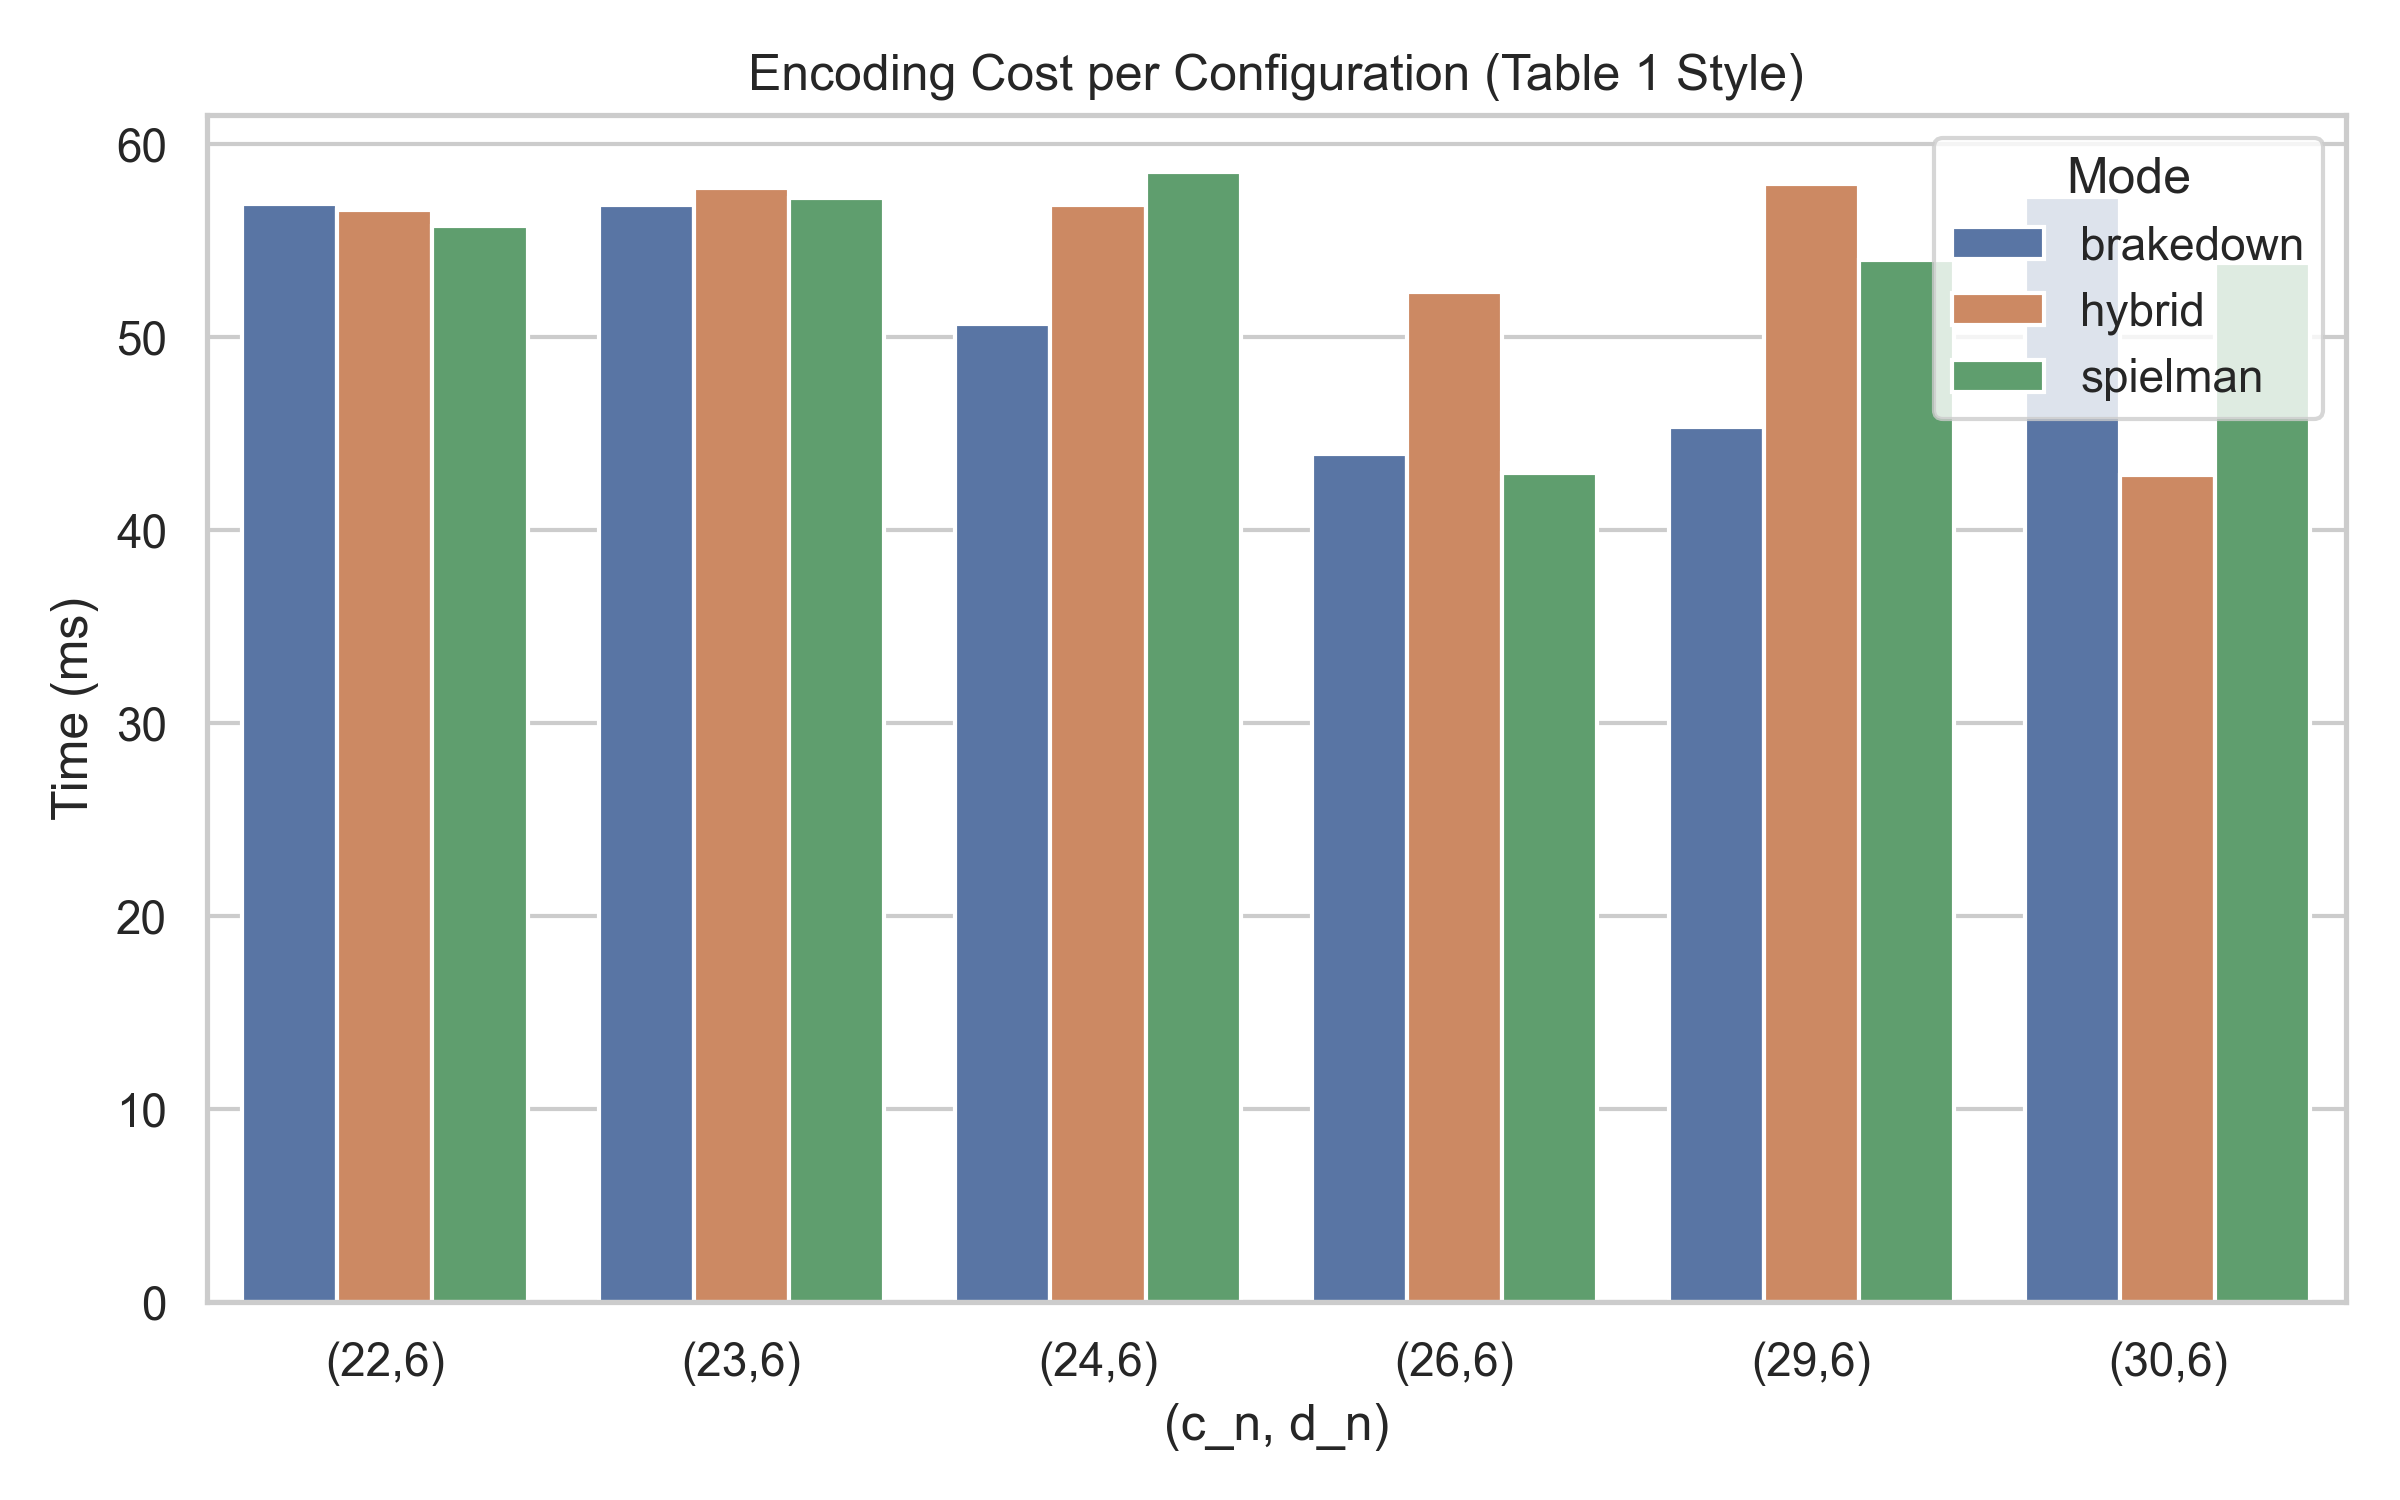
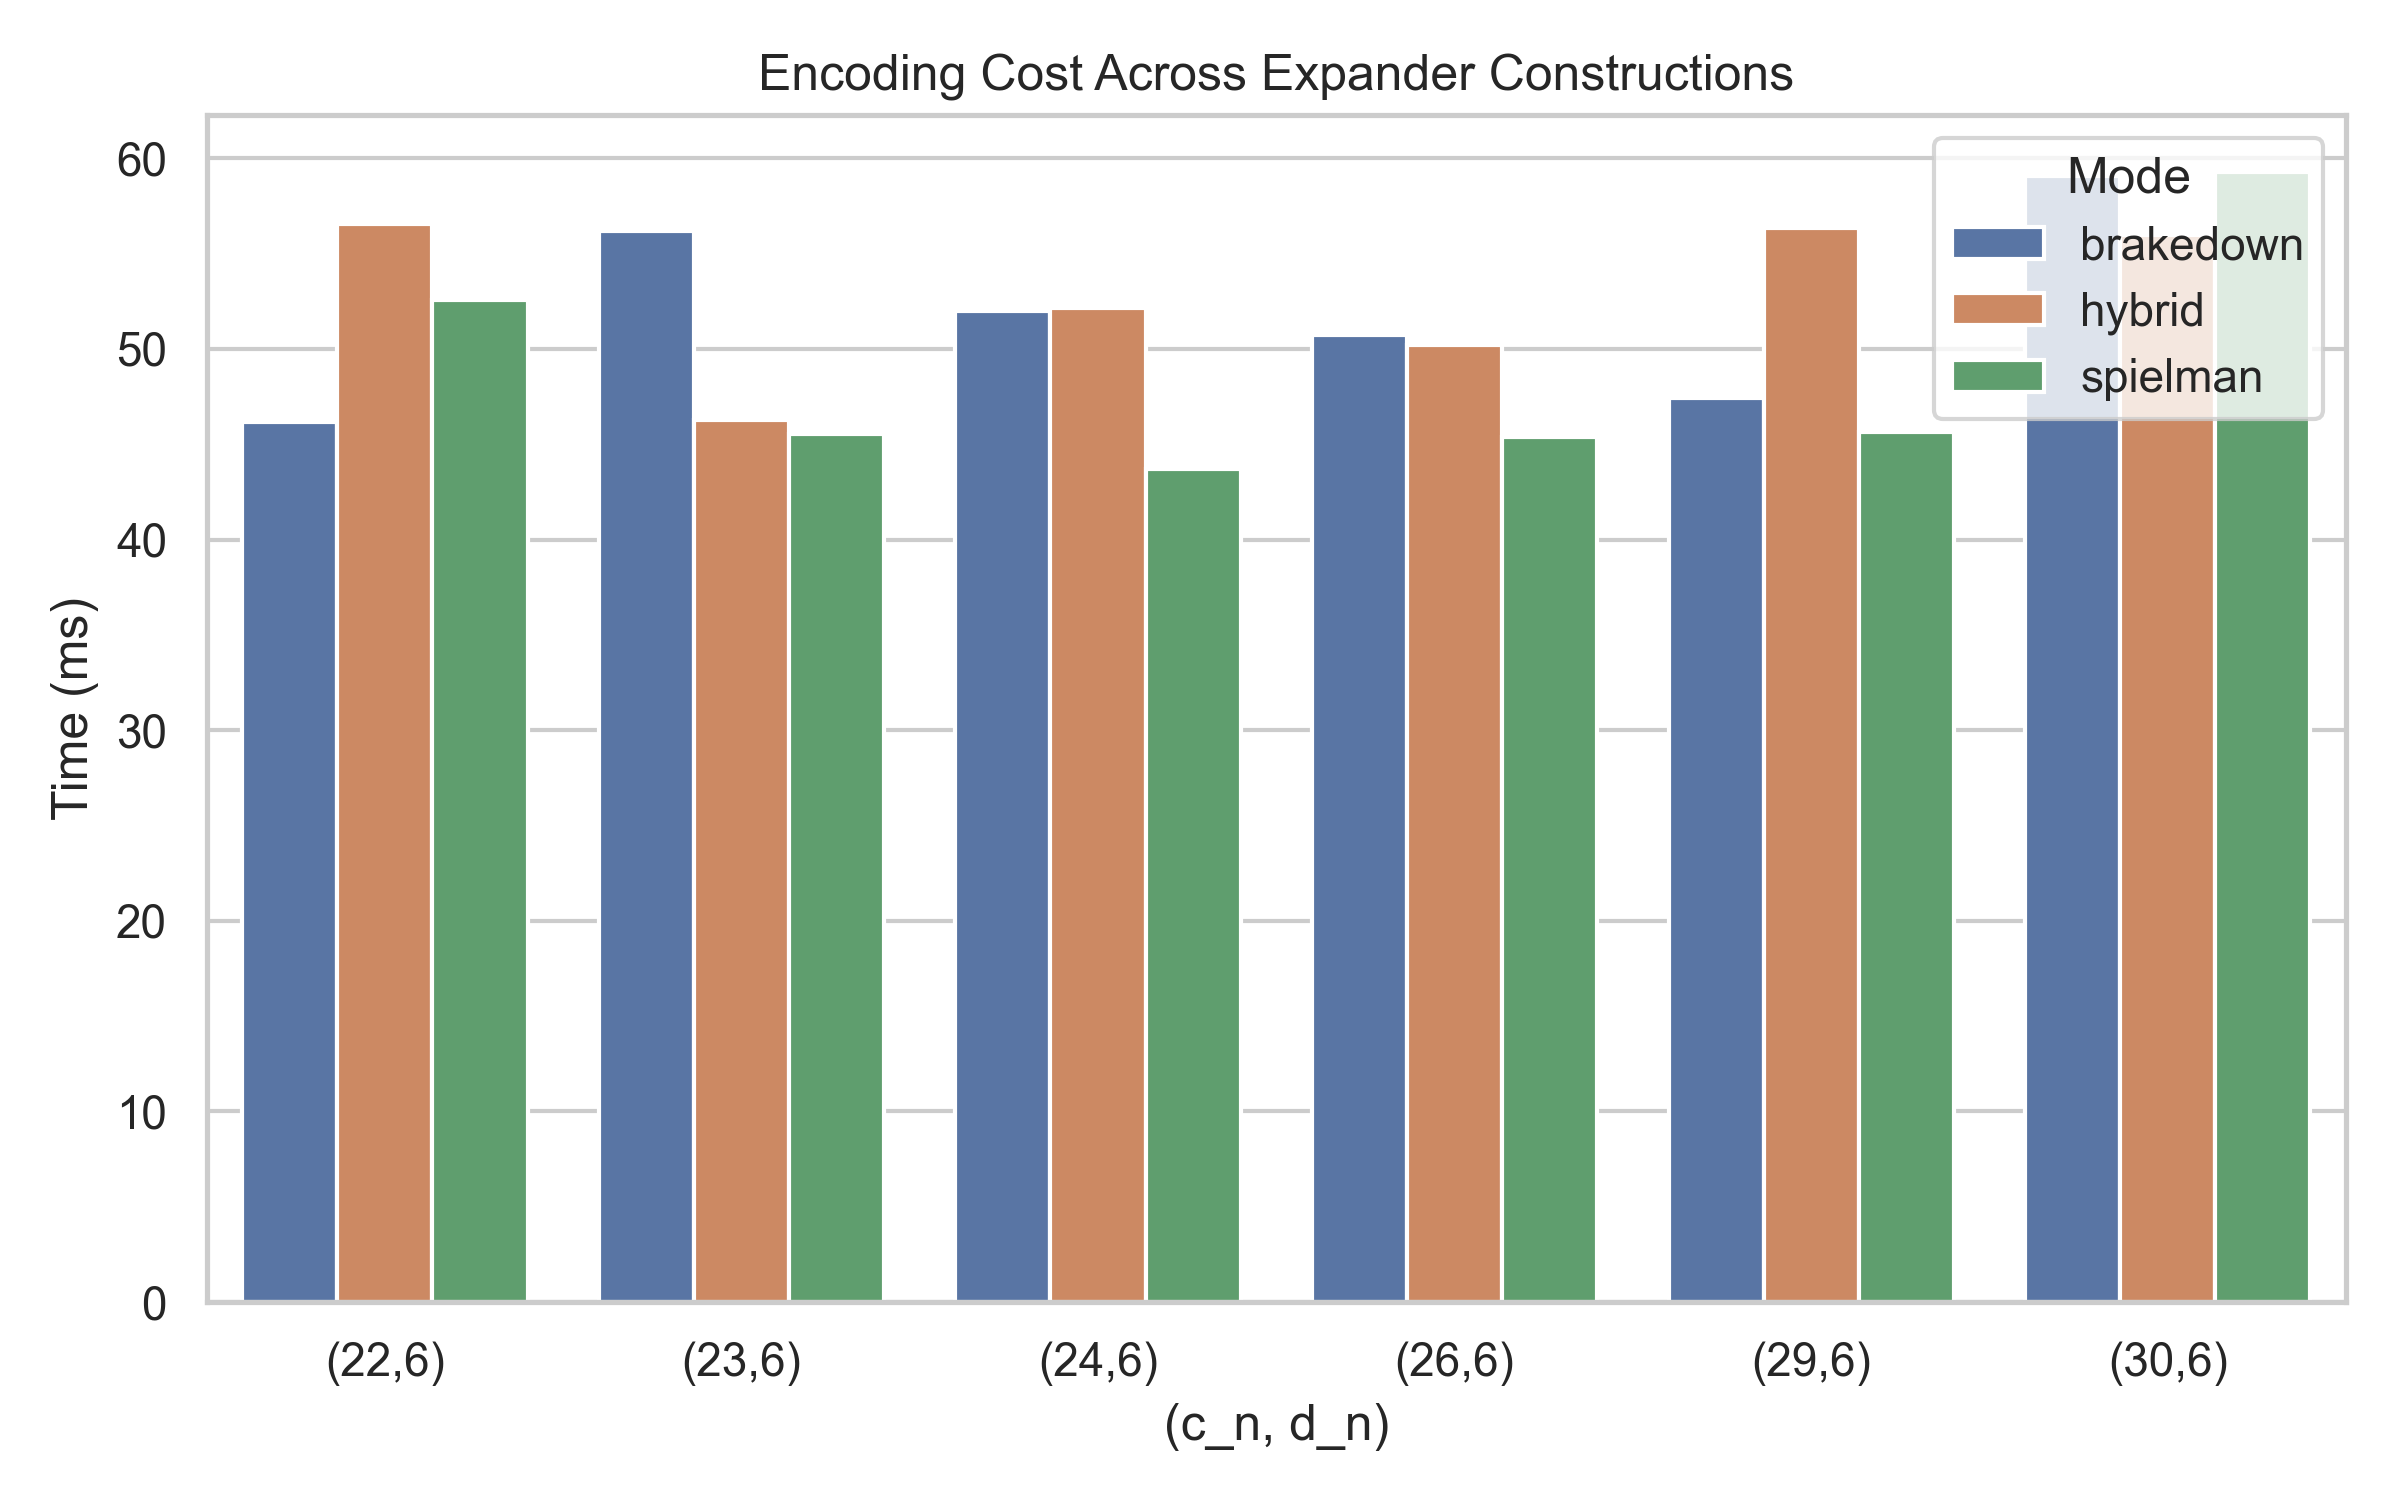
python fix, final

diff --git a/plot.py b/plot.py
@@ -1,24 +1,34 @@
-
 import pandas as pd
 import matplotlib.pyplot as plt
 import seaborn as sns
 
 sns.set(style="whitegrid")
 
+# =========================
+# LOAD DATA
+# =========================
+
 df = pd.read_csv("results.csv")
 df["mode"] = df["mode"].str.lower()
 
-#GROUP DATA
+# =========================
+# GROUP DATA
+# =========================
+
 df_grouped = (
     df.groupby(["mode", "d", "weight"], as_index=False)
       .agg({"avg_time_ms": "mean"})
 )
 
-# Create config label (Table 1 style)
-df_grouped["config"] = "(" + df_grouped["weight"].astype(str) + "," + df_grouped["d"].astype(str) + ")"
+# Config label (Table-style)
+df_grouped["config"] = (
+    "(" + df_grouped["weight"].astype(str) +
+    "," + df_grouped["d"].astype(str) + ")"
+)
 
-
-#  1. TABLE 1 STYLE BAR PLOT (BEST)
+# =========================
+# 1. TABLE-STYLE BAR PLOT
+# =========================
 
 plt.figure(figsize=(8,5))
 
@@ -29,7 +39,7 @@ sns.barplot(
     hue="mode"
 )
 
-plt.title("Encoding Cost per Configuration (Table 1 Style)")
+plt.title("Encoding Cost Across Expander Constructions")
 plt.xlabel("(c_n, d_n)")
 plt.ylabel("Time (ms)")
 plt.legend(title="Mode")
@@ -37,59 +47,78 @@ plt.tight_layout()
 plt.savefig("table1_style.png", dpi=300)
 plt.show(block=False)
 
-
+# =========================
 # 2. SPEEDUP TABLE
+# =========================
+
 pivot = df_grouped.pivot_table(
     index=["d", "weight"],
     columns="mode",
     values="avg_time_ms"
 )
 
+# Hybrid vs Brakedown
 if "brakedown" in pivot.columns and "hybrid" in pivot.columns:
     pivot["hybrid_vs_brakedown_%"] = (
         (pivot["brakedown"] - pivot["hybrid"]) /
         pivot["brakedown"] * 100
     )
 
+# Hybrid vs Spielman
 if "spielman" in pivot.columns and "hybrid" in pivot.columns:
     pivot["hybrid_vs_spielman_%"] = (
         (pivot["spielman"] - pivot["hybrid"]) /
         pivot["spielman"] * 100
     )
 
+# Brakedown vs Spielman
+if "brakedown" in pivot.columns and "spielman" in pivot.columns:
+    pivot["brakedown_vs_spielman_%"] = (
+        (pivot["spielman"] - pivot["brakedown"]) /
+        pivot["spielman"] * 100
+    )
+
 print("\n=== SPEEDUP TABLE (%) ===")
 print(pivot.round(2))
 
-
-# 3. SPEEDUP PLOT 
-
 pivot_reset = pivot.reset_index()
 
-plt.figure()
+# =========================
+# 3. SPEEDUP PLOTS
+# =========================
+
+# Hybrid vs Brakedown
+plt.figure(figsize=(8,5))
 
 if "hybrid_vs_brakedown_%" in pivot_reset.columns:
     sns.lineplot(
         data=pivot_reset,
         x="d",
         y="hybrid_vs_brakedown_%",
+        hue="weight",
+        style="weight",
         marker="o"
     )
 
-    plt.axhline(0, linestyle="--")  # baseline
+    plt.axhline(0, linestyle="--")
     plt.title("Hybrid vs Brakedown Speedup (%)")
     plt.xlabel("d")
     plt.ylabel("Speedup (%)")
+    plt.legend(title="Weight (c_n)")
     plt.tight_layout()
     plt.savefig("hybrid_vs_brakedown.png", dpi=300)
     plt.show(block=False)
 
-plt.figure()
+# Hybrid vs Spielman
+plt.figure(figsize=(8,5))
 
 if "hybrid_vs_spielman_%" in pivot_reset.columns:
     sns.lineplot(
         data=pivot_reset,
         x="d",
         y="hybrid_vs_spielman_%",
+        hue="weight",
+        style="weight",
         marker="o"
     )
 
@@ -97,12 +126,36 @@ if "hybrid_vs_spielman_%" in pivot_reset.columns:
     plt.title("Hybrid vs Spielman Speedup (%)")
     plt.xlabel("d")
     plt.ylabel("Speedup (%)")
+    plt.legend(title="Weight (c_n)")
     plt.tight_layout()
     plt.savefig("hybrid_vs_spielman.png", dpi=300)
+    plt.show(block=False)
+
+# Brakedown vs Spielman
+plt.figure(figsize=(8,5))
+
+if "brakedown_vs_spielman_%" in pivot_reset.columns:
+    sns.lineplot(
+        data=pivot_reset,
+        x="d",
+        y="brakedown_vs_spielman_%",
+        hue="weight",
+        style="weight",
+        marker="o"
+    )
+
+    plt.axhline(0, linestyle="--")
+    plt.title("Brakedown vs Spielman Speedup (%)")
+    plt.xlabel("d")
+    plt.ylabel("Speedup (%)")
+    plt.legend(title="Weight (c_n)")
+    plt.tight_layout()
+    plt.savefig("brakedown_vs_spielman.png", dpi=300)
     plt.show()
 
-
-#  4. SUMMARY
+# =========================
+# 4. SUMMARY
+# =========================
 
 if "hybrid_vs_brakedown_%" in pivot.columns:
     avg_speedup = pivot["hybrid_vs_brakedown_%"].mean()
@@ -112,8 +165,9 @@ if "hybrid_vs_spielman_%" in pivot.columns:
     avg_speedup = pivot["hybrid_vs_spielman_%"].mean()
     print(f"Average Hybrid vs Spielman: {avg_speedup:.2f}%")
 
-
-#  N SCALING PLOT
+# =========================
+# 5. N-SCALING EXPERIMENT
+# =========================
 
 df_n = pd.read_csv("results_n_scaling.csv")
 df_n["mode"] = df_n["mode"].str.lower()
@@ -123,7 +177,7 @@ df_n_grouped = (
         .agg({"avg_time_ms": "mean"})
 )
 
-plt.figure()
+plt.figure(figsize=(8,5))
 
 sns.lineplot(
     data=df_n_grouped,
@@ -133,7 +187,7 @@ sns.lineplot(
     marker="o"
 )
 
-plt.title("Encoding Cost vs Input Size n")
+plt.title("Scalability of Expander-Based Encoding")
 plt.xlabel("n")
 plt.ylabel("Time (ms)")
 plt.legend(title="Mode")
@@ -141,8 +195,9 @@ plt.tight_layout()
 plt.savefig("cost_vs_n.png", dpi=300)
 plt.show(block=False)
 
-
-# COST MODEL VALIDATION
+# =========================
+# 6. COST MODEL VALIDATION
+# =========================
 
 df_c = pd.read_csv("results_cost_model.csv")
 
@@ -154,7 +209,7 @@ sns.scatterplot(
     y="measured_ms"
 )
 
-plt.title("Cost Model Validation: Theory vs Measured Runtime")
+plt.title("Empirical Validation of Encoding Cost Model")
 plt.xlabel("(1/(1-α)) * (c + (α/ρ)d)")
 plt.ylabel("Measured Time (ms)")
 plt.tight_layout()

diff --git a/src/demo.rs b/src/demo.rs
@@ -12,6 +12,17 @@ use crate::experiment::{
 };
 use crate::expander::SamplingMode;
 
+fn print_vector(label: &str, v: &[F], max: usize) {
+    println!("{}", label);
+
+    for (i, val) in v.iter().take(max).enumerate() {
+        println!("  [{}] = {}", i, val);
+    }
+
+    if v.len() > max {
+        println!("  ... ({} more elements)", v.len() - max);
+    }
+}
 
 fn read_n() -> usize {
     let mut input = String::new();
@@ -48,10 +59,30 @@ for i in 0..trials {
     let x = random_vector(n);
 
     let trace = encode_with_trace(x.clone(), &layers);
+            println!("\n=== INPUT VECTOR ===");
+            print_vector("x:", &x, 10);
 
-    let mut y = trace.layers.last().unwrap().clone();
-    corrupt(&mut y, n / 10);
+            println!("\n=== ENCODING TRACE ===");
+            for (i, layer_out) in trace.layers.iter().enumerate() {
+                print_vector(&format!("Layer {}", i), layer_out, 10);
+            }
+    //let mut y = trace.layers.last().unwrap().clone();
+    //corrupt(&mut y, n / 10);
+let correct = trace.layers.last().unwrap().clone();
 
+let mut y = correct.clone();
+corrupt(&mut y, n / 10);
+
+println!("\n=== FINAL OUTPUT (CORRECT) ===");
+print_vector("y_correct:", &correct, 5);
+
+println!("\n=== FINAL OUTPUT (CORRUPTED) ===");
+print_vector("y_corrupted:", &y, 5);
+
+
+//println!("\n=== DIFFERENCES ===");
+//for i in 0..correct.len() {if correct[i] != y[i] {println!("Mismatch at {}: correct={} corrupted={}",i, correct[i], y[i]);}}
+    
     let detected = !demo_verify_sampling(&x, &y, &layers, 5);
 
     if detected {
@@ -60,6 +91,8 @@ for i in 0..trials {
     } else {
         println!("Trial {} → FAILED", i);
     }
+
+   
 }
 
 println!("\nDetection rate: {}/{}", detected_count, trials);
